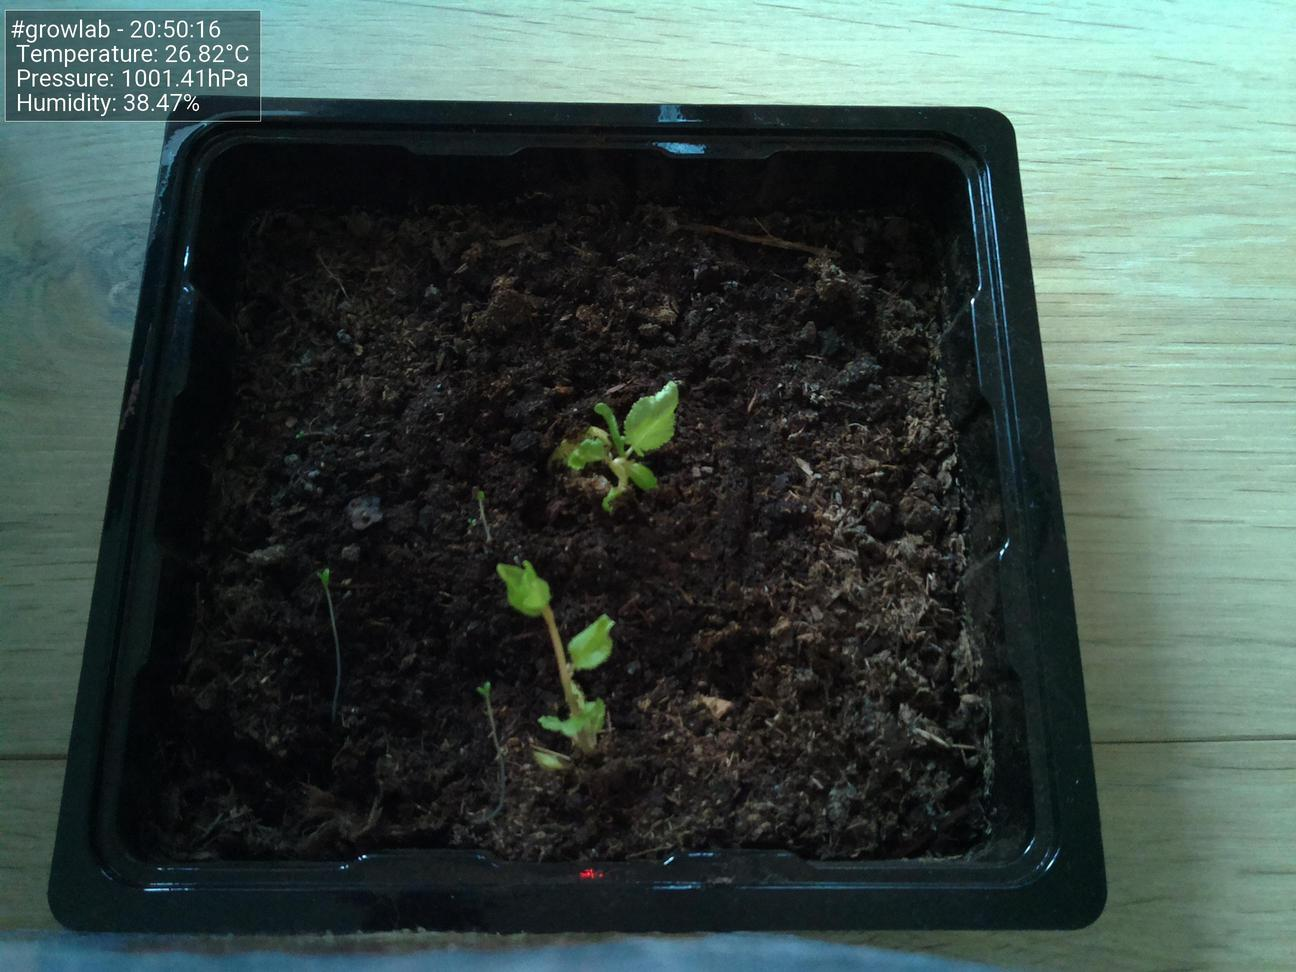
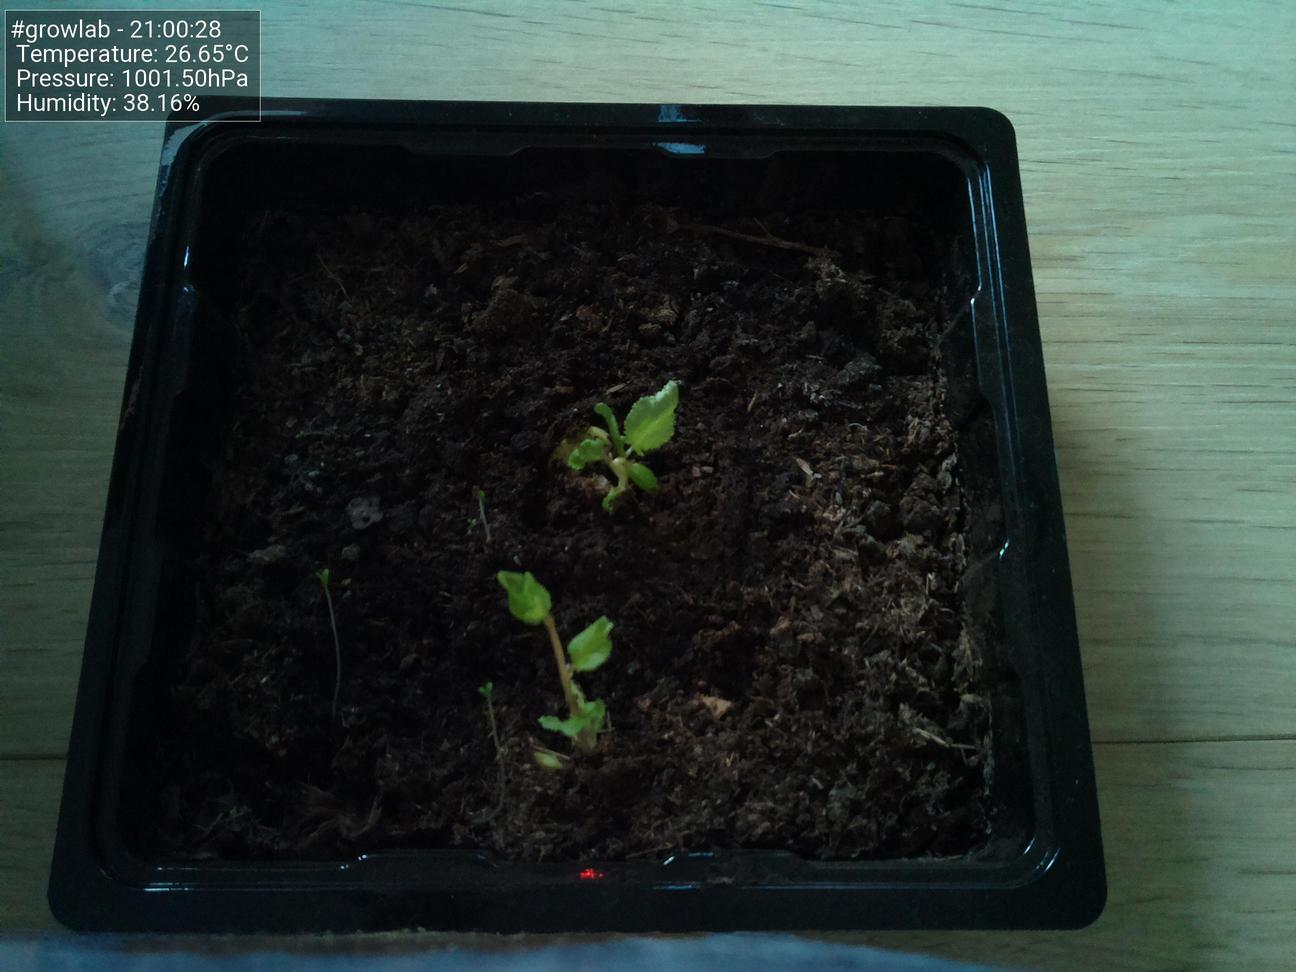
Update images at Tue  8 Jun 21:00:32 CEST 2021

diff --git a/docs/index.html b/docs/index.html
@@ -47,19 +47,19 @@
                         <tbody>
                             <tr>
                                 <td>Time</td>
-                                <td>20:50:16</td>
+                                <td>21:00:28</td>
                             </tr>
                             <tr>
                                 <td>Temperature</td>
-                                <td>26.82°C</td>
+                                <td>26.65°C</td>
                             </tr>
                             <tr>
                                 <td>Humidity</td>
-                                <td>38.47%</td>
+                                <td>38.16%</td>
                             </tr>
                             <tr>
                                 <td>Pressure</td>
-                                <td>1001.41hPa</td>
+                                <td>1001.50hPa</td>
                             </tr>
                         </tbody>
                     </table>
@@ -67,7 +67,7 @@
 
                 <h5>Latest image</h5>
                 <div style="width: 85%;">
-                            <img class="figure-img img-fluid rounded" src="./preview.jpg?uid=1623178220.8438613">
+                            <img class="figure-img img-fluid rounded" src="./preview.jpg?uid=1623178832.2393823">
                 </div>
             </div>
         </div>
